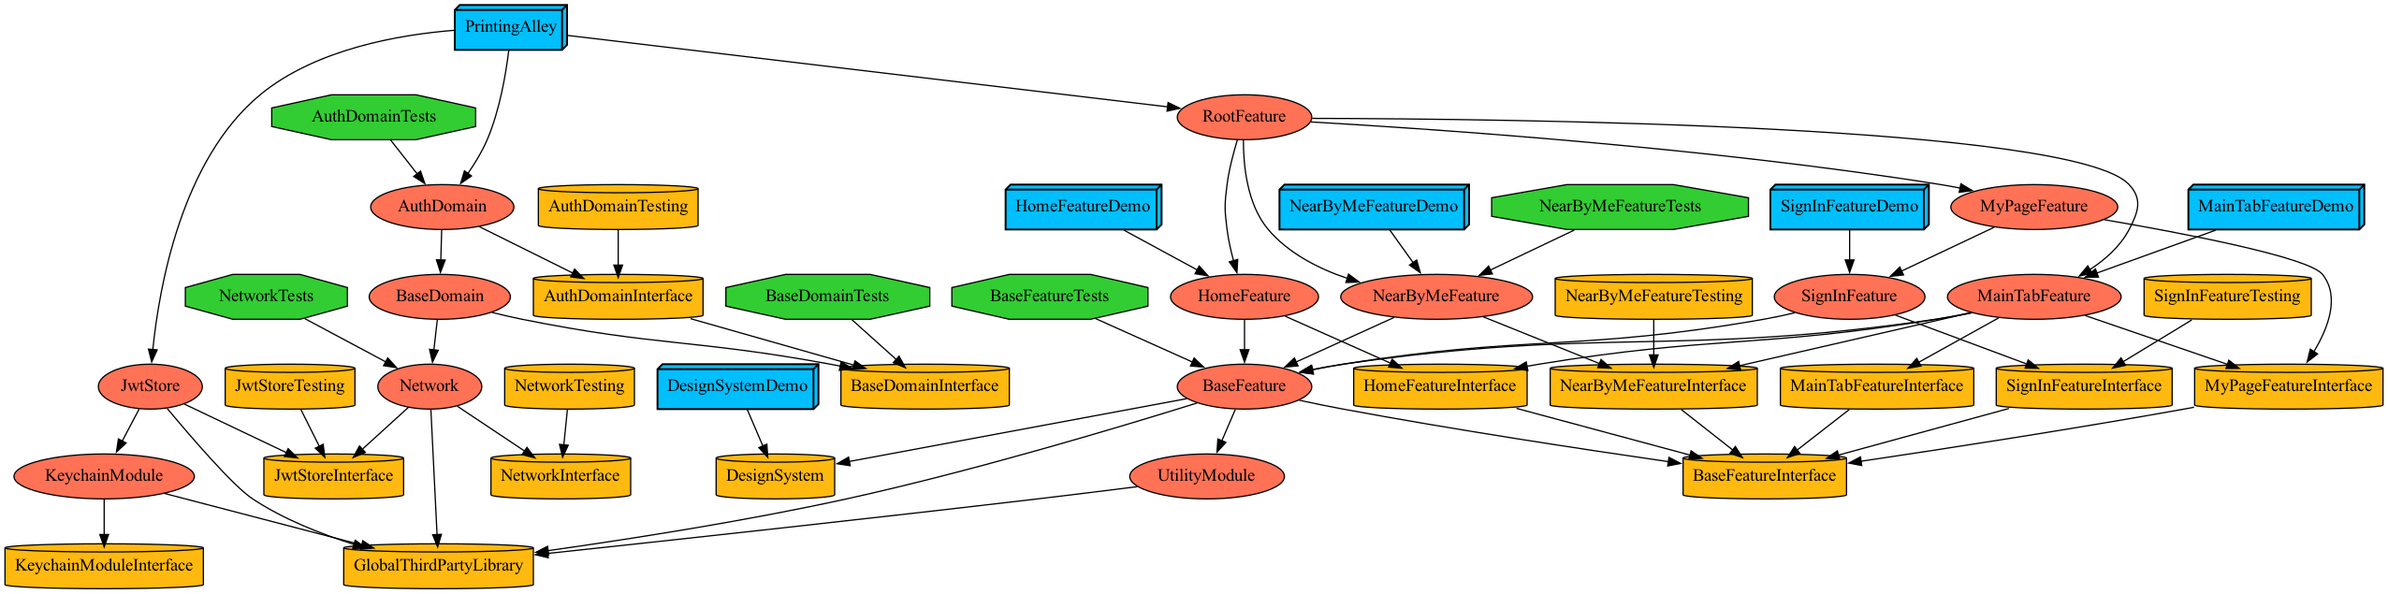
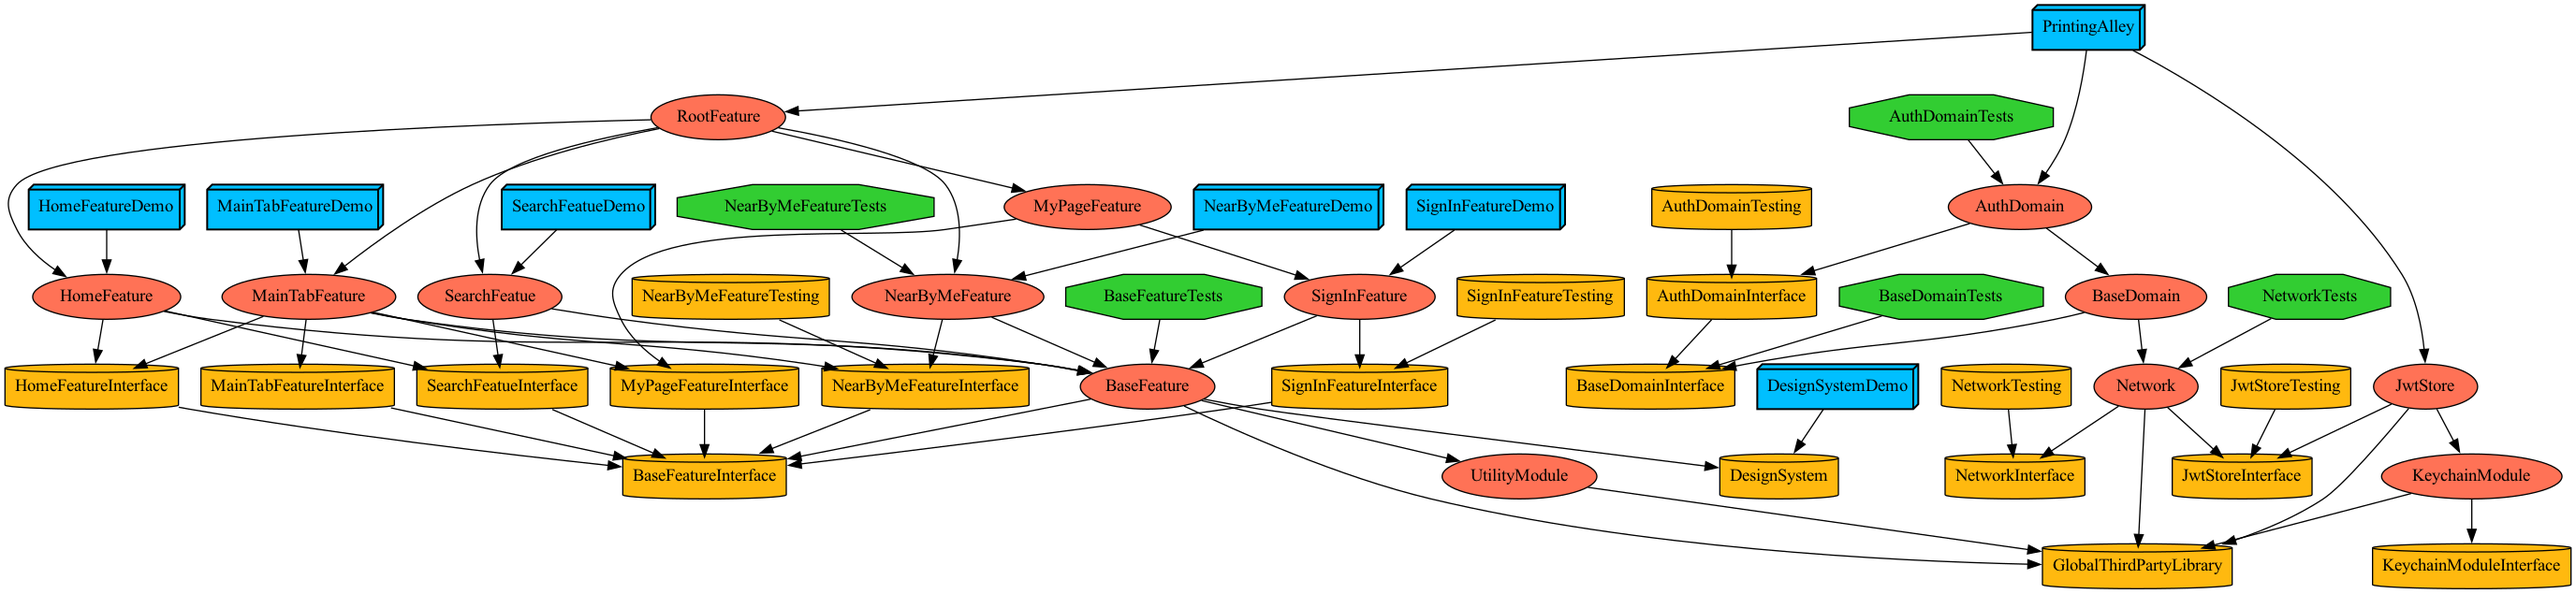
:film_projector: :: SearchFeature 디펜던시 정의

diff --git a/Projects/Feature/SearchFeatue/Project.swift b/Projects/Feature/SearchFeatue/Project.swift
@@ -5,12 +5,12 @@ import ProjectDescriptionHelpers
 let project = Project.module(
     name: ModulePaths.Feature.SearchFeatue.rawValue,
     targets: [
-        .interface(module: .feature(.SearchFeatue)),
-        .implements(module: .feature(.SearchFeatue), dependencies: [
-            .feature(target: .SearchFeatue, type: .interface)
+        .interface(module: .feature(.SearchFeatue), dependencies: [
+            .feature(target: .BaseFeature, type: .interface)
         ]),
-        .testing(module: .feature(.SearchFeatue), dependencies: [
-            .feature(target: .SearchFeatue, type: .interface)
+        .implements(module: .feature(.SearchFeatue), dependencies: [
+            .feature(target: .SearchFeatue, type: .interface),
+            .feature(target: .BaseFeature),
         ]),
         .demo(module: .feature(.SearchFeatue), dependencies: [
             .feature(target: .SearchFeatue)

diff --git a/Projects/Feature/HomeFeature/Project.swift b/Projects/Feature/HomeFeature/Project.swift
@@ -9,8 +9,9 @@ let project = Project.module(
             .feature(target: .BaseFeature, type: .interface)
         ]),
         .implements(module: .feature(.HomeFeature), dependencies: [
+            .feature(target: .BaseFeature),
             .feature(target: .HomeFeature, type: .interface),
-            .feature(target: .BaseFeature)
+            .feature(target: .SearchFeatue, type: .interface)
         ]),
         .demo(module: .feature(.HomeFeature), dependencies: [
             .feature(target: .HomeFeature)

diff --git a/Projects/Feature/RootFeature/Project.swift b/Projects/Feature/RootFeature/Project.swift
@@ -9,7 +9,8 @@ let project = Project.module(
             .feature(target: .MainTabFeature),
             .feature(target: .HomeFeature),
             .feature(target: .MyPageFeature),
-            .feature(target: .NearByMeFeature)
+            .feature(target: .NearByMeFeature),
+            .feature(target: .SearchFeatue)
         ])
     ]
 )
